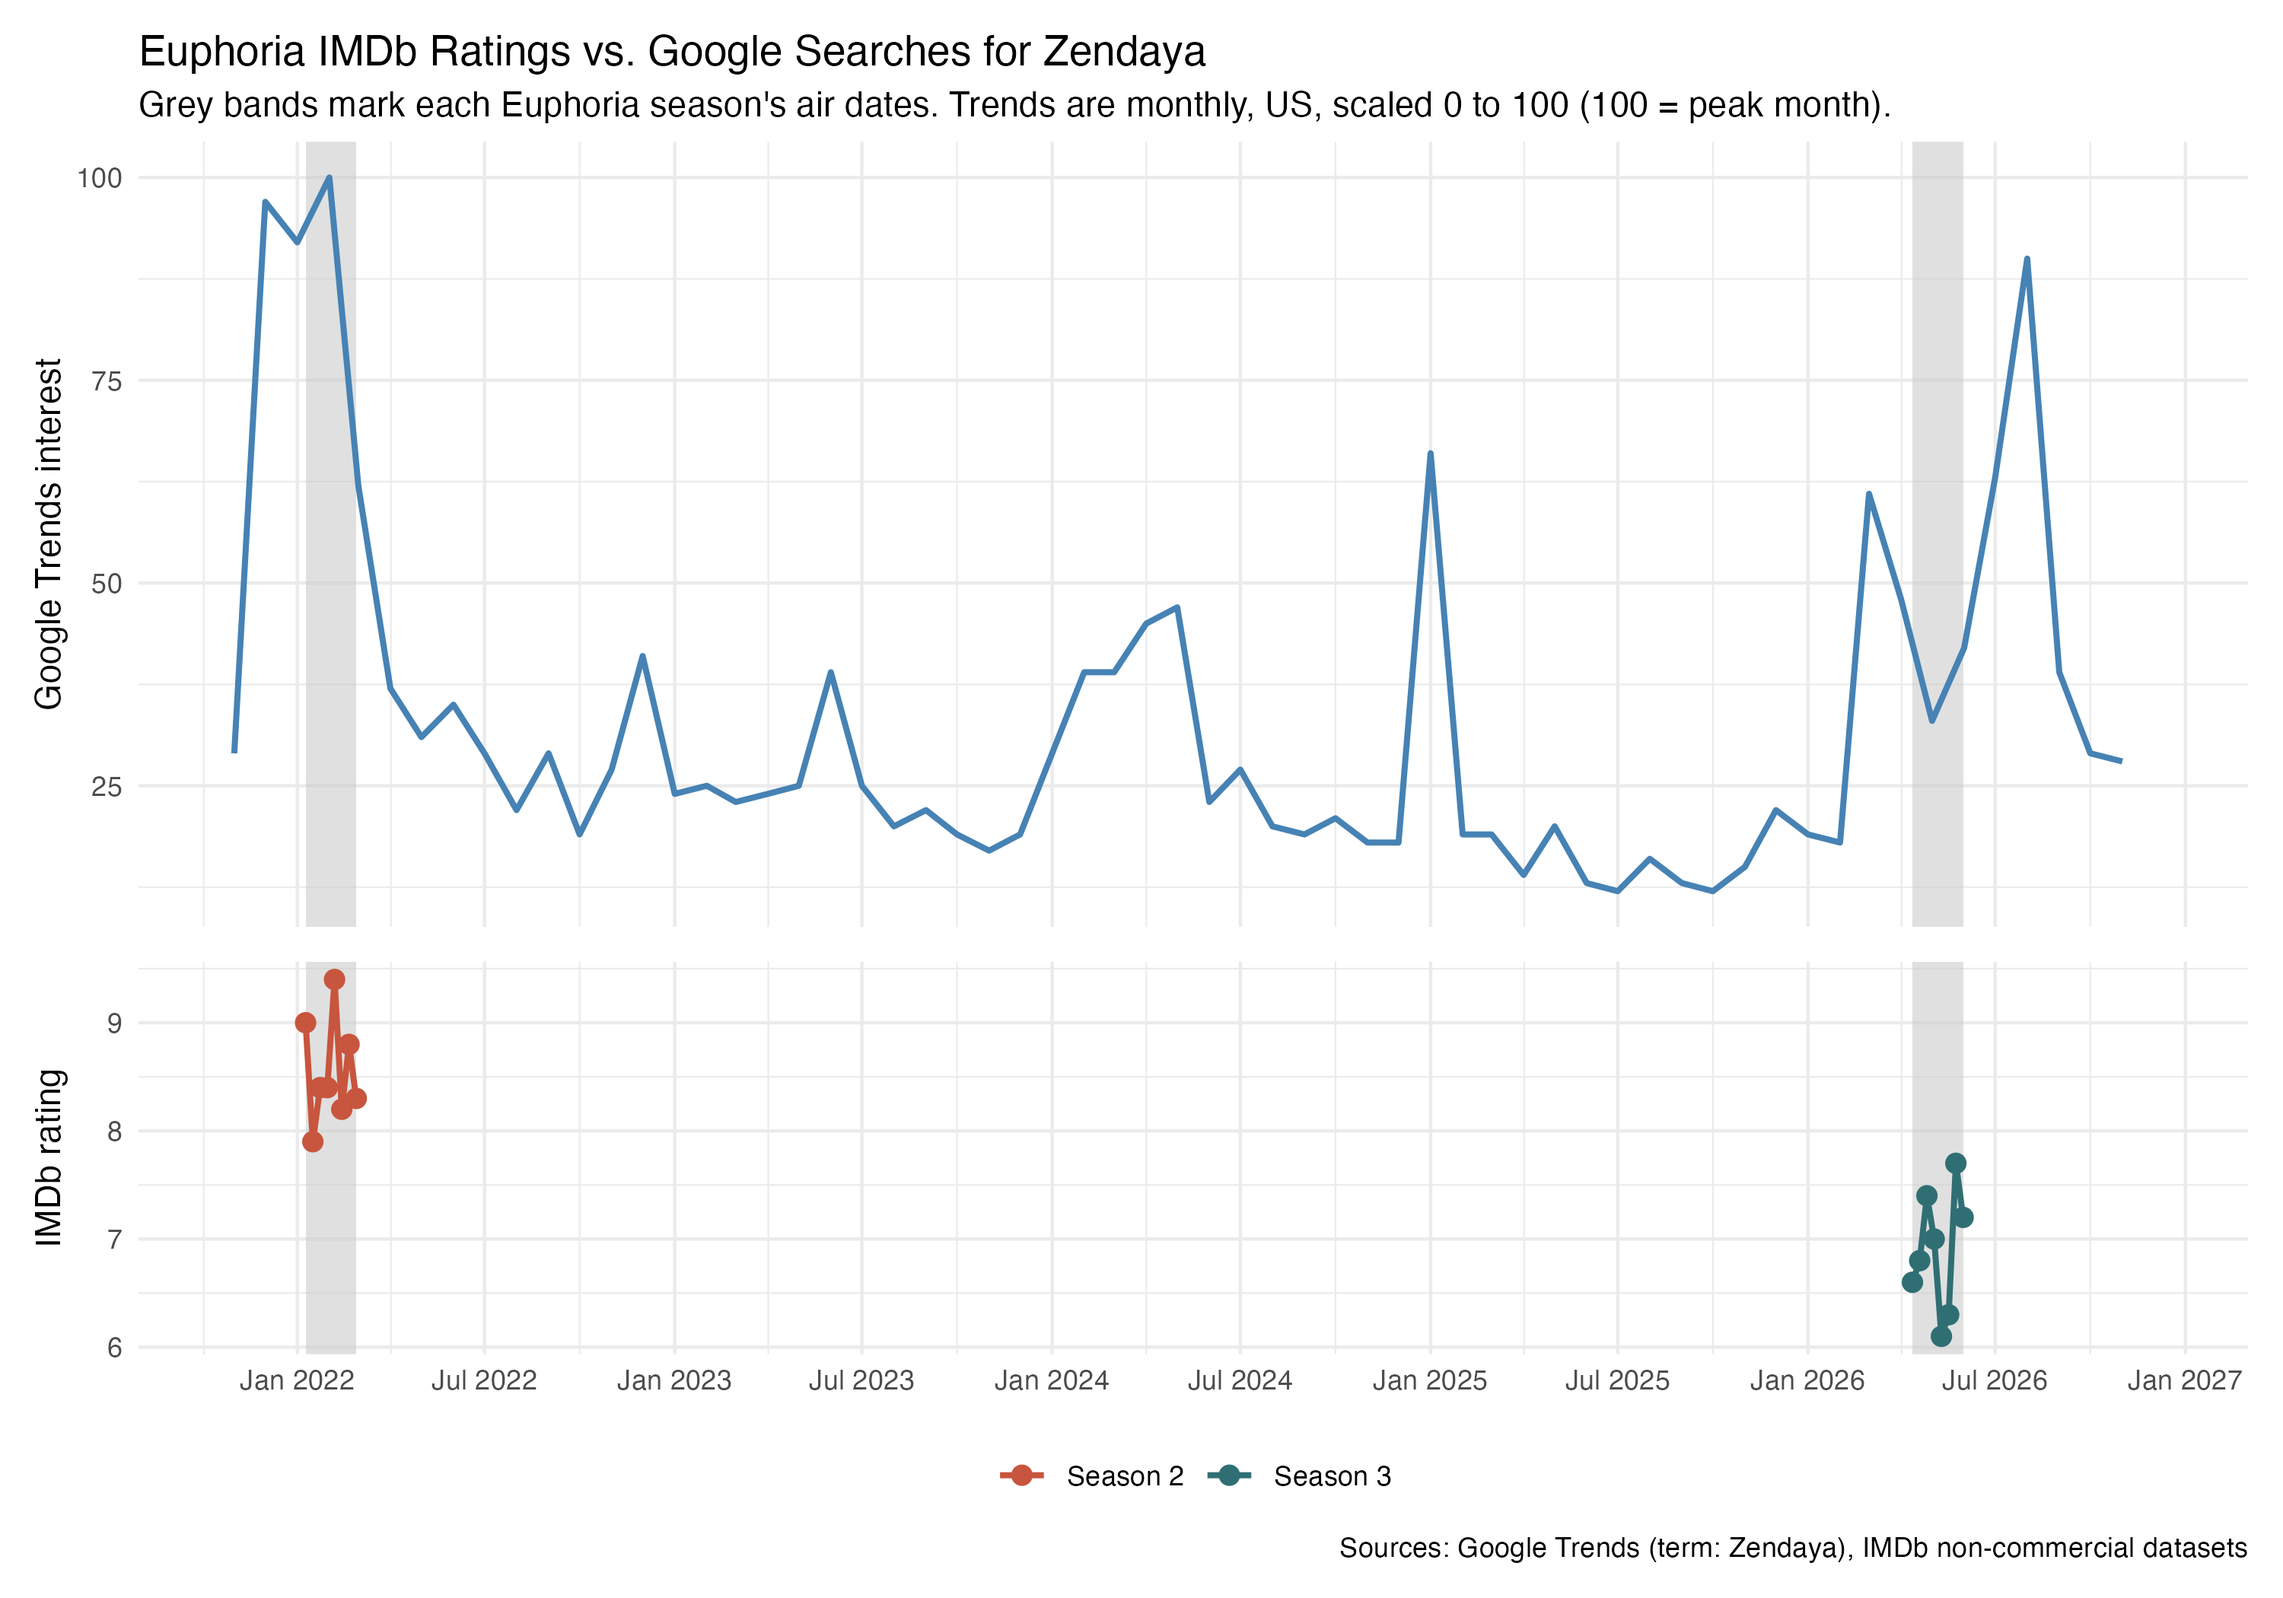
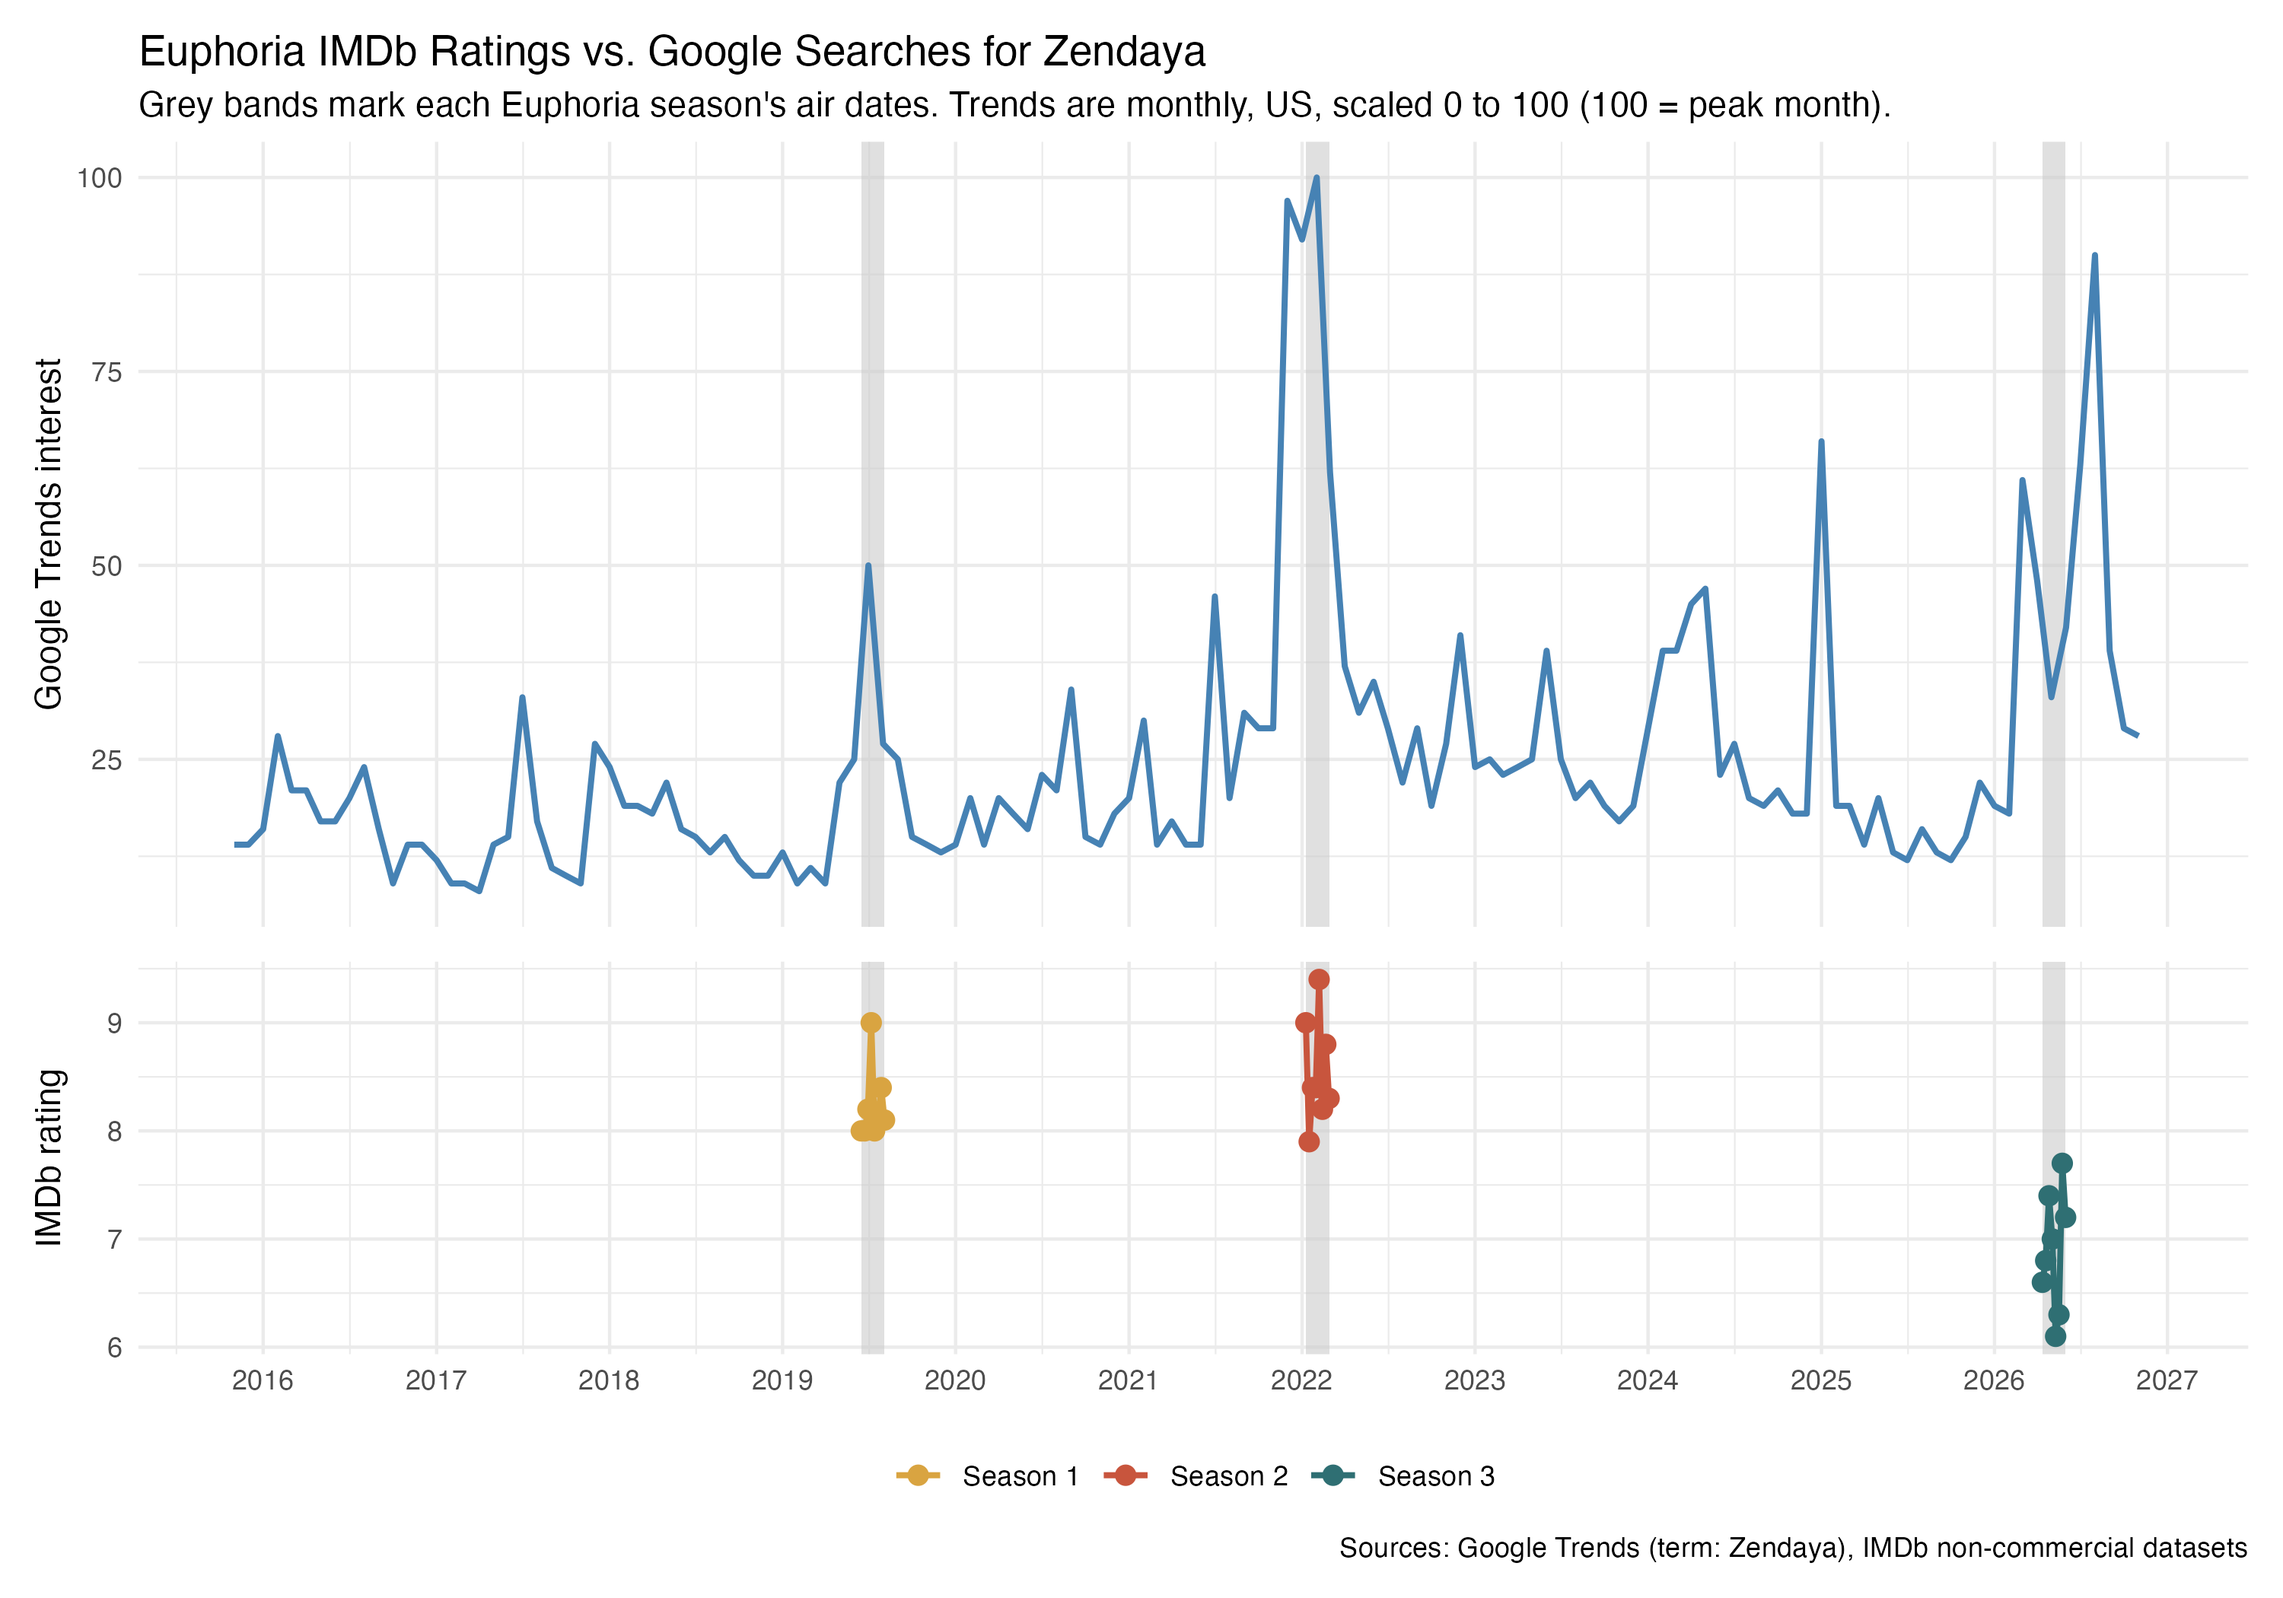
Extend Google Trends data to 2015 and show all Euphoria seasons

diff --git a/README.md b/README.md
@@ -9,7 +9,7 @@ A small dataset and plot exploring Zendaya's screen time vs. box office performa
 - `euphoria_heatmap.png`: rendered heatmap of IMDb rating by season (rows) and episode (columns)
 - `euphoria_heatmap_compare.R`: R script that produces the IMDb vs. TVmaze small multiples
 - `euphoria_heatmap_compare.png`: rendered small multiples of IMDb and TVmaze ratings by season and episode, on a shared color scale
-- `zendaya_google_trends.csv`: monthly Google Trends interest for the search term "Zendaya" (US, Nov 2021 to Nov 2026, scaled 0 to 100 where 100 is the peak month), downloaded from [Google Trends](https://trends.google.com/trends/) on 2026-11-05
+- `zendaya_google_trends.csv`: monthly Google Trends interest for the search term "Zendaya" (US, Nov 2015 to Nov 2026, scaled 0 to 100 where 100 is the peak month), downloaded from [Google Trends](https://trends.google.com/trends/) on 2026-11-05
 - `euphoria_trends.R`: R script that produces the Euphoria IMDb ratings vs. Google Trends chart
 - `euphoria_trends.png`: rendered chart stacking Google Trends interest for "Zendaya" above Euphoria IMDb ratings by air date. Trends are for Zendaya, not Euphoria, and monthly, so this is a rough comparison
 - `zendaya_scatter.R`: R script that produces the scatter plot
